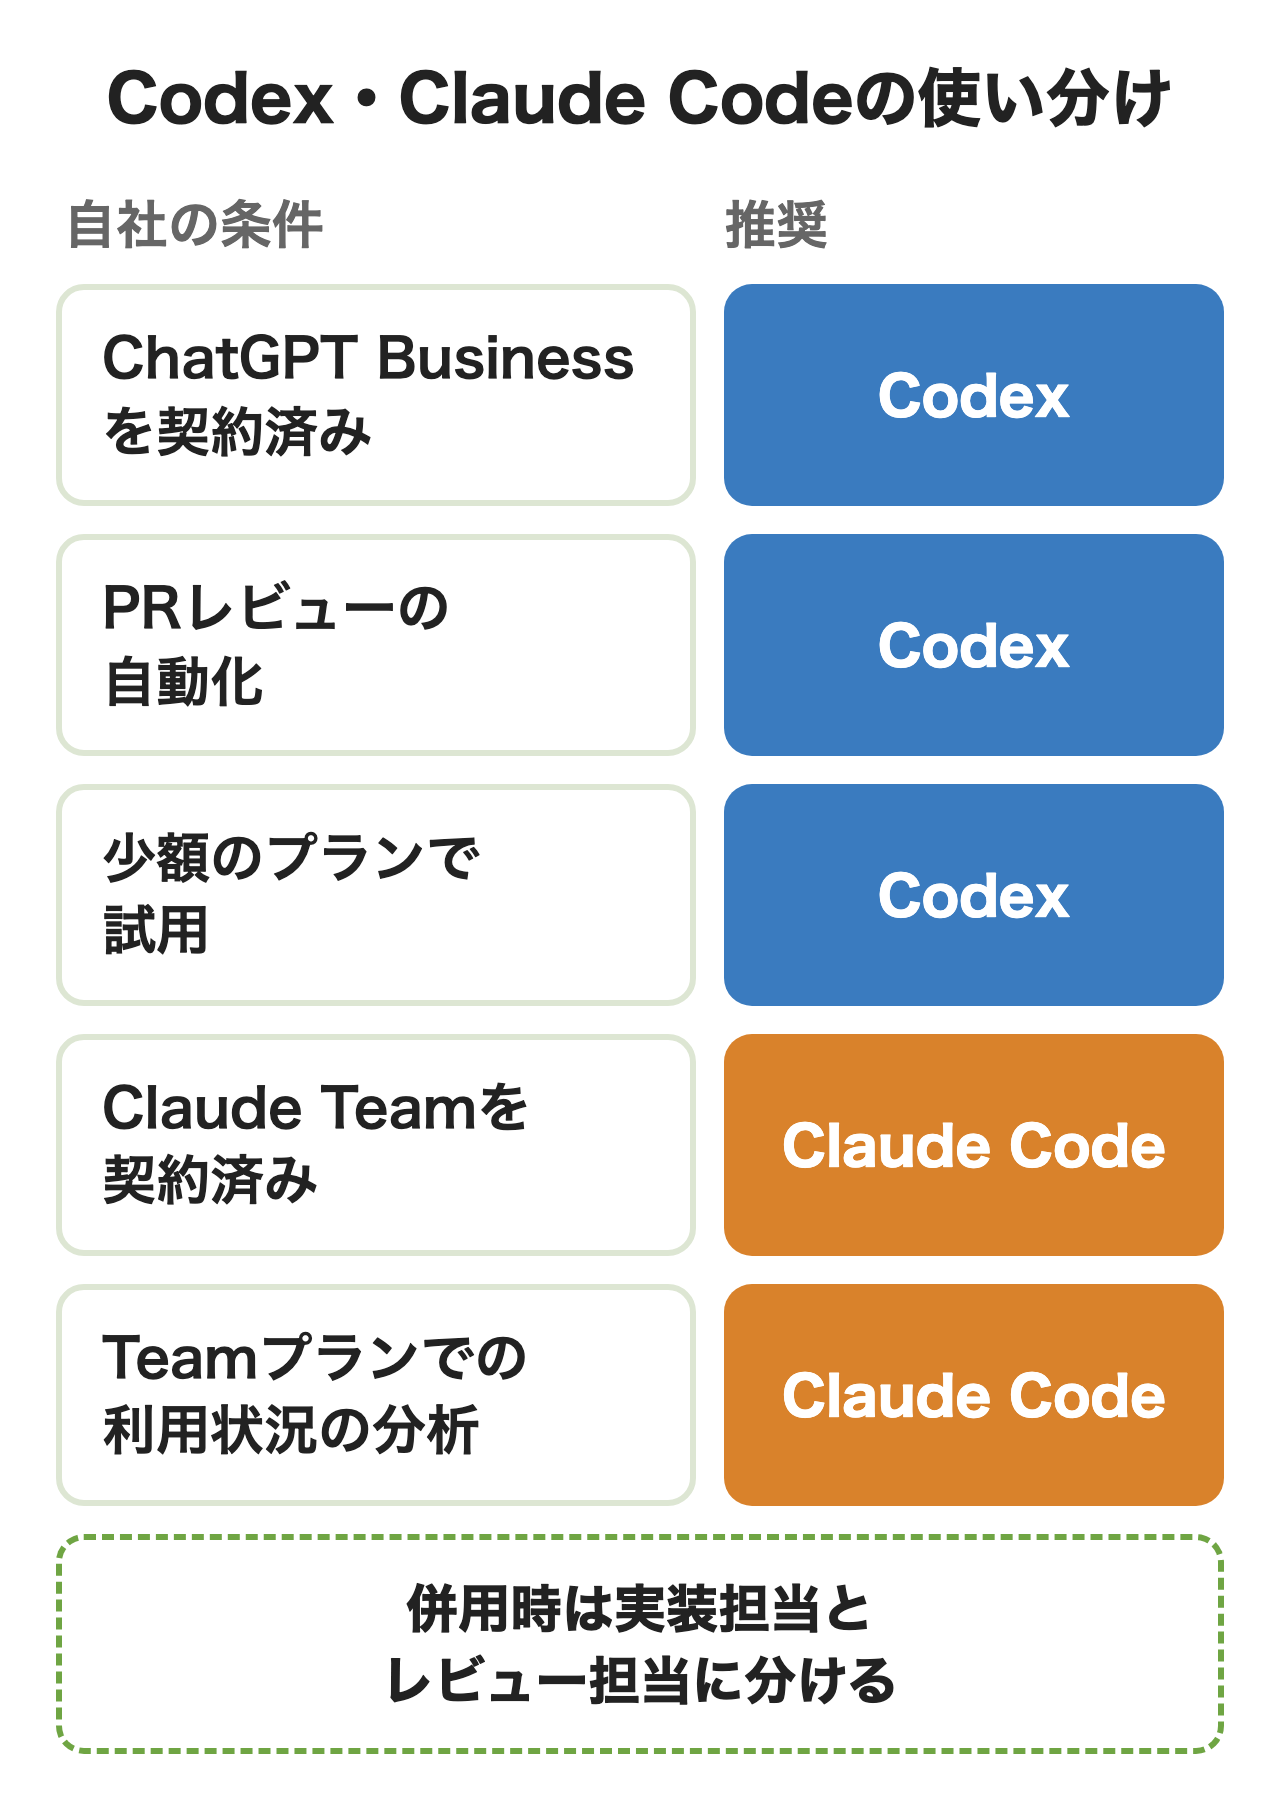
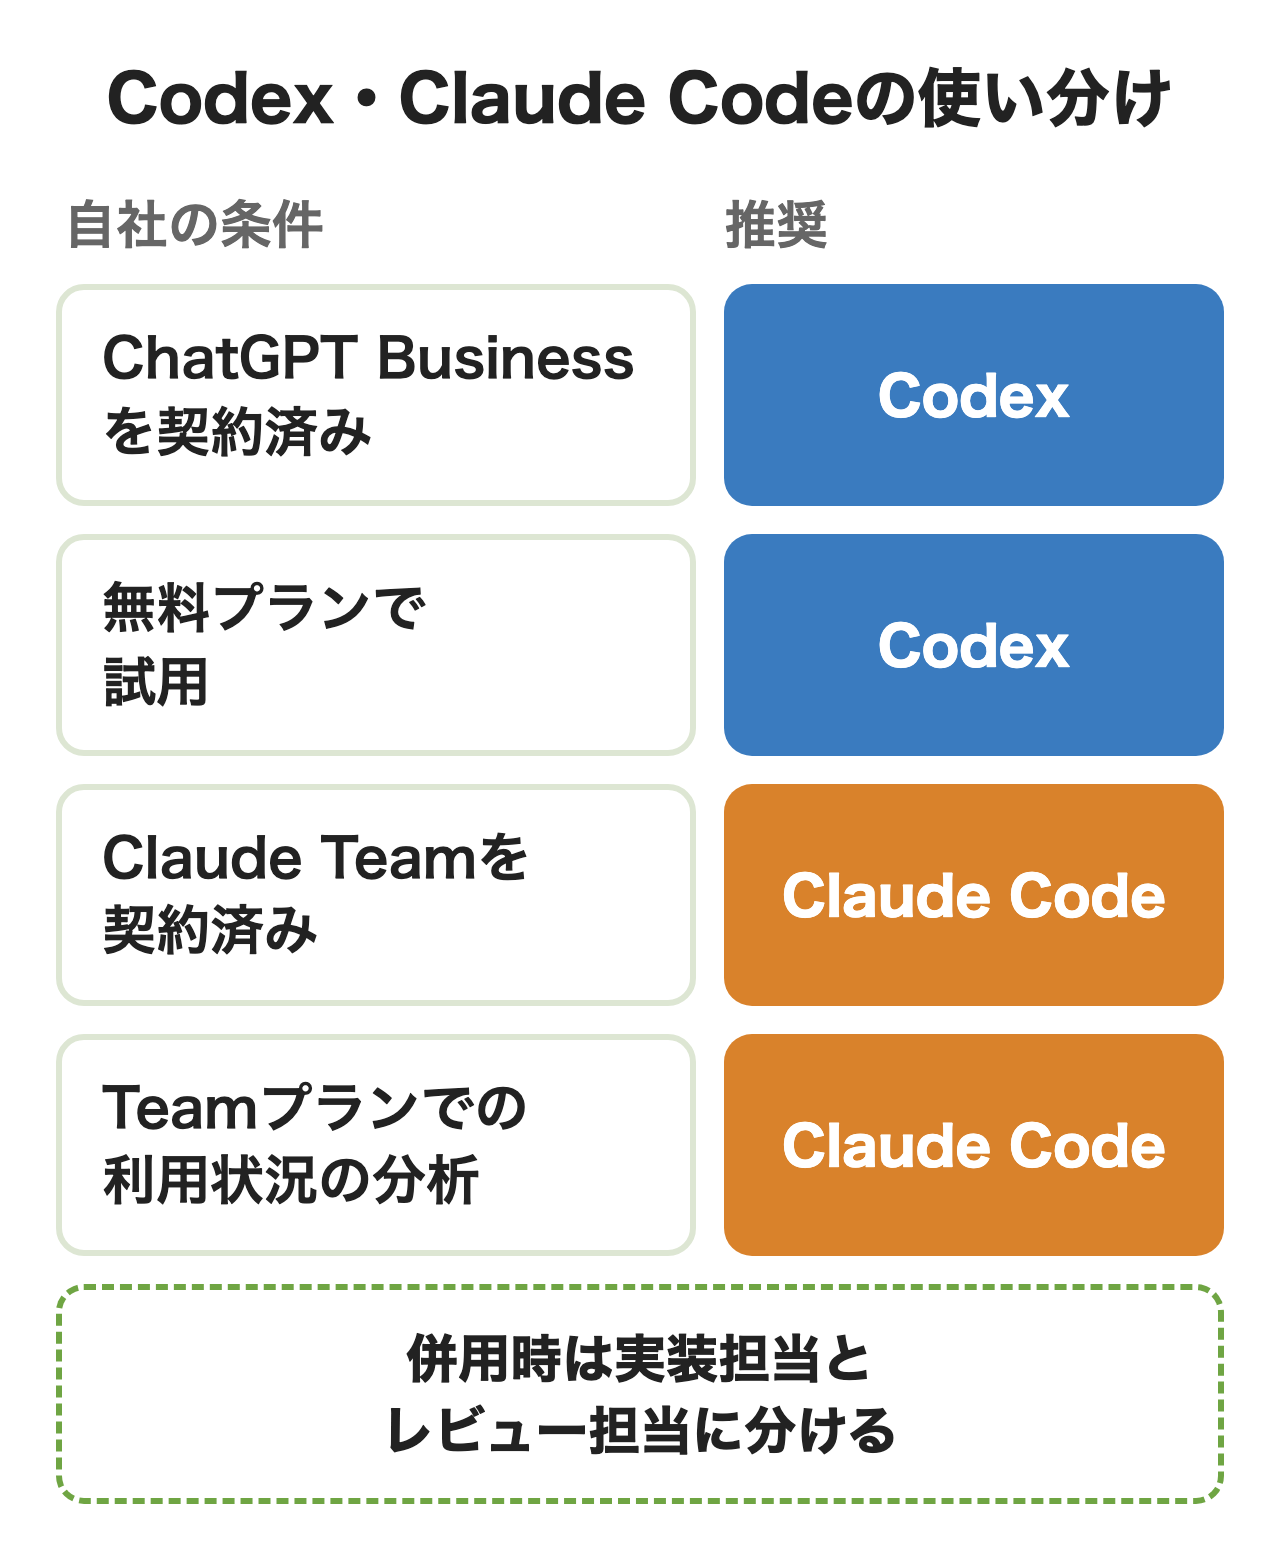
seo: 添削を反映（図の文言と本文のつながり）

Changed region(s): [[0.0312, 0.0307, 0.9688, 0.9834]]

diff --git a/media/posts/genspark-guide.md b/media/posts/genspark-guide.md
@@ -90,9 +90,6 @@ desc: ChatGPT・Gemini・Claude・Perplexityのディープリサーチの違い
 | Team | 1人$40 | 1人$35 | 1人10,000 | 2〜150人の組織 |
 | Enterprise | 個別見積もり | 個別見積もり | 1人20,000から（契約で設定） | 大規模・契約書が必要な組織 |
 
-<figure class="post-figure"><img src="/media/images/genspark-guide/gsp_02_plan.png" alt="Gensparkの利用目的別の料金プランの図。無料で試用はFree $0、個人で利用はPlus 月$24.99〜、個人での大量利用はPro 月$249.99〜、2名以上のチーム利用はTeam 1人月$40、法人契約はEnterpriseで個別見積もり。無料プランでの業務利用は難しい" loading="lazy"></figure>
-
-
 Plus・Proは同じプランの中で量を選ぶ段階制で、年払いはどの段階でも約20%安くなります。Freeの1日100クレジットは無料分の生涯の上限に達すると補充が止まるため、**無料のまま業務で使い続けるのは難しい**と考えておきましょう。足りない月はPlus・Proなら$20で7,500クレジットのパック（3か月有効）、Teamなら$45で10,000クレジットの追加分を買えます。
 
 日本円で払う場合の消費税は、特定商取引法の表記では「表示価格に消費税（10%）を含みます」、料金の解説ブログでは「消費税10%が加算」と書かれています。**実際の請求額は購入画面に表示された金額**なので、稟議には購入画面の額を使うのが確実です。Teamの年払い（1人$35）の記載はヘルプの料金表です。ただ同じヘルプのFAQは「Teamは月額制」、特商法の表記も月$40だけを載せているため、年払いで稟議を組む前に購入画面で確かめたほうが安全です。なお、Teamの毎月のクレジットはヘルプと法人FAQでは10,000、7月の料金ブログでは12,000と書かれており、この記事ではヘルプの数字を載せています。

diff --git a/media/posts/codex-vs-claude-code.md b/media/posts/codex-vs-claude-code.md
@@ -23,7 +23,7 @@ OpenAIのCodexはChatGPTのプランに、AnthropicのClaude CodeはClaudeのプ
 
 開発チームに入れる道具を選ぶ相談で多いのは「性能はどちらが上か」という問いです。ただ両社の最新モデルの発表を読むと、互いに自社が上回る結果を発表しており、性能だけでは決め手になりません。**会社の判断を分けるのはいま全社で契約しているAIのプランと、管理者が求める統制の深さです。**
 
-<figure class="post-figure"><img src="/media/images/codex-vs-claude-code/cvc_01_overview.png" alt="Codex・Claude Codeの使い分けの図。ChatGPT Businessを契約済み、PRレビューの自動化、少額のプランで試用ならCodex。Claude Teamを契約済み、Teamプランでの利用状況の分析ならClaude Code。併用時は実装担当とレビュー担当に分ける" loading="lazy"></figure>
+<figure class="post-figure"><img src="/media/images/codex-vs-claude-code/cvc_01_overview.png" alt="Codex・Claude Codeの使い分けの図。ChatGPT Businessを契約済み、無料プランで試用ならCodex。Claude Teamを契約済み、Teamプランでの利用状況の分析ならClaude Code。併用時は実装担当とレビュー担当に分ける" loading="lazy"></figure>
 
 ChatGPT Businessを全社で入れている会社なら、Codexは追加の契約なしで開発者に開けます。Claude Teamを入れている会社なら、Claude Codeも同じ1人分の契約に含まれます。どちらも契約していない会社は、次の3つで比べると判断が早くなります。
 

diff --git a/media/posts/devin-ai.md b/media/posts/devin-ai.md
@@ -142,7 +142,7 @@ Cognitionは2026年4月に日本法人を立ち上げました。伊藤忠テク
 
 ## 会社で入れる前に決めること
 
-**試用を始める前に、プランと人数・利用量の上限・コードとデータの扱い・人が確認する所の4つを、開発と情報システムの担当で決めておきます。**
+**試用を始める前に、プランと人数・利用量の上限・コードとデータの扱い・人が確認する所を、開発と情報システムの担当で決めておきます。**
 
 | 決めること | 公式の条件 | 決め方の例 |
 |---|---|---|
@@ -153,7 +153,6 @@ Cognitionは2026年4月に日本法人を立ち上げました。伊藤忠テク
 | 対象のリポジトリ | GitHubでは全部か選んだものだけを許可 | 試用は1〜2個のリポジトリに限る |
 | 認証情報 | 設定のSecretsに保存して渡す | 本番の鍵は渡さず検証用だけ |
 | 人の確認 | Devinも人と同じブランチ保護の下に入る | マージは必ず人。テストとCIの合格を条件に |
-
 
 GitHubに入れるDevinのアプリは、コードの読み書き・PR・Issue・Actionsの実行などの権限を求めます。**求める権限に、組織に新しいリポジトリを作る権限（repository creation）も含まれます。試用の段階では「Select repositories」で対象を絞っておくほうが安全です。**
 
